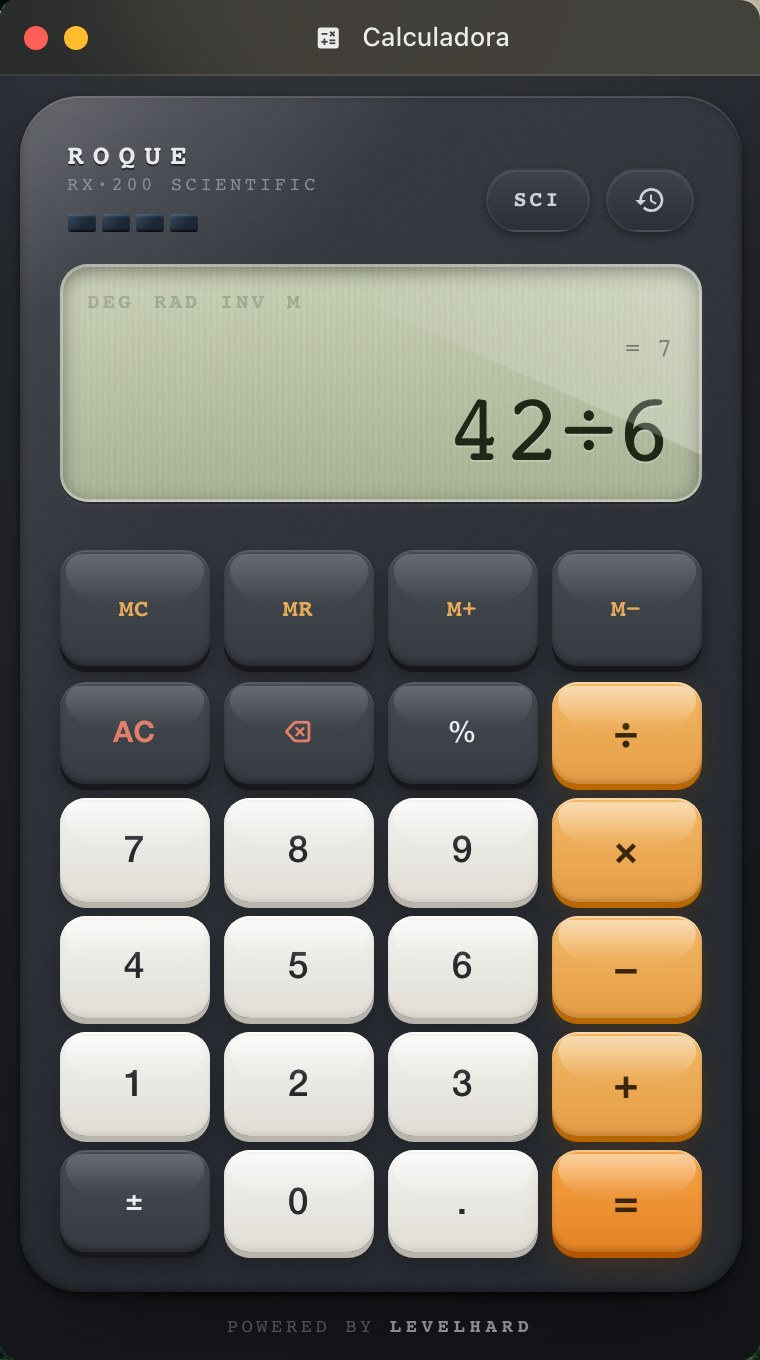
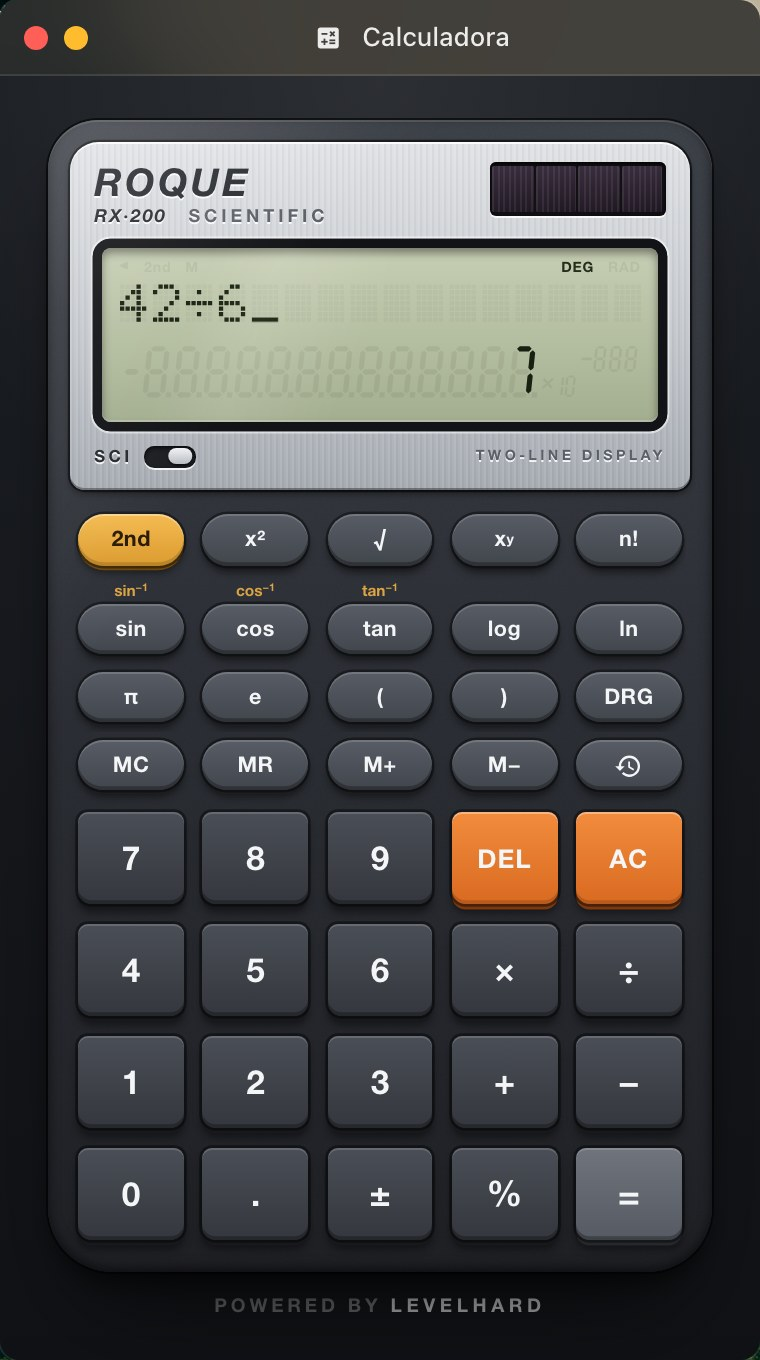
docs(readme): a capa nova, a 0.2.0 dentro do RoqueOS (build 2581, preview)
Claude-Session: https://claude.ai/code/session_016stUNYLNkZp5TRUEevN3Aw

diff --git a/ASSETS.md b/ASSETS.md
@@ -13,7 +13,7 @@ O único desenho de terceiro é o ícone do histórico, o `history` do
 `src/Calculadora.vue`. O ícone da janela e da Launchpad é o `calculate` do Material Icons,
 desenhado pelo RoqueOS a partir do nome no `app.json`.
 
-A capa do README (`docs/capa.jpg`) é um print do app dentro do RoqueOS (build 2579 do front, em
-pt-BR), tirado com o Playwright numa sessão de teste com conteúdo de exemplo, em 28/09/2026;
+A capa do README (`docs/capa.jpg`) é um print do app dentro do RoqueOS (build 2581 do front, com a
+0.2.0, em pt-BR), tirado com o Playwright numa sessão de teste com conteúdo de exemplo, em 28/09/2026;
 autoral, MIT como o resto do repo. Ela não vai no pacote que o RoqueOS instala (o `files` do
 `package.json` não leva `docs/`).

diff --git a/README.md b/README.md
@@ -10,7 +10,7 @@ teclado físico quando a janela está ativa, e a carcaça pega a luz conforme o 
 
 Use de graça em [roqueos.com.br](https://roqueos.com.br), no computador, no celular e na TV.
 
-![A Calculadora do RoqueOS numa janela: 42 ÷ 6 no visor, com a prévia do resultado em cima](docs/capa.jpg)
+![A Calculadora do RoqueOS numa janela: uma calculadora científica grafite com painel de alumínio, 42 ÷ 6 na matriz de pontos do visor e o 7 em sete segmentos embaixo](docs/capa.jpg)
 
 _English below._
 
